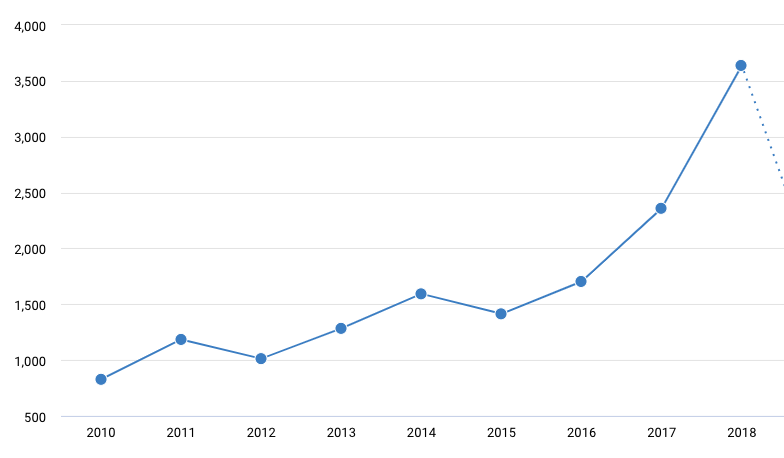
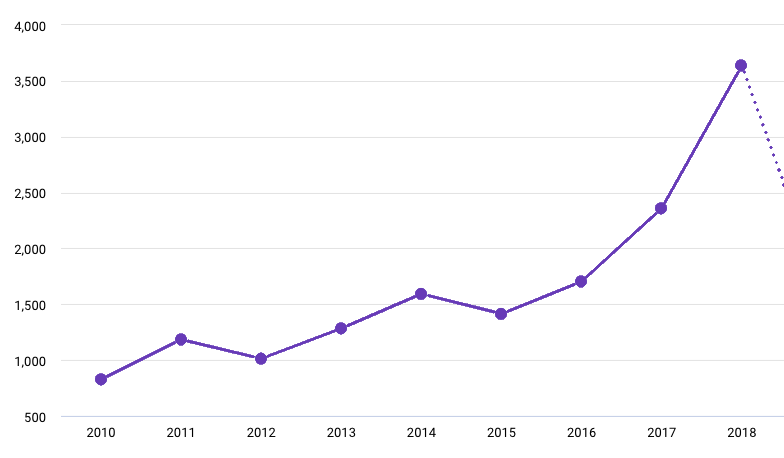
it should work

diff --git a/src/app/app.module.ts b/src/app/app.module.ts
@@ -25,16 +25,9 @@ import { AddPupilFormComponent } from './components/add-pupil-form/add-pupil-for
 import { BrowserAnimationsModule } from '@angular/platform-browser/animations';
 import { RegisterHeadmasterComponent } from './pages/register-headmaster/register-headmaster.component';
 import { AddHeadmasterFormComponent } from './components/add-headmaster-form/add-headmaster-form.component';
-import { MatButtonModule } from '@angular/material/button';
-import { MatCard, MatCardModule } from '@angular/material/card';
-import { MatFormFieldModule } from '@angular/material/form-field';
-import { MatIconModule } from '@angular/material/icon';
-import { MatSelectModule } from '@angular/material/select';
-import { MatSortModule } from '@angular/material/sort';
-import { MatTableModule } from '@angular/material/table';
+
 import { AddTeacherFormComponent } from './components/add-teacher-form/add-teacher-form.component';
 import { AddParentFormComponent } from './components/add-parent-form/add-parent-form.component';
-import { from } from 'rxjs';
 import { SchoolRegisterFormComponent } from './components/school-register-form/school-register-form.component';
 import { AdminInfoComponent } from './components/admin-info/admin-info.component';
 import { AdminNavbarComponent } from './components/admin-navbar/admin-navbar.component';
@@ -45,6 +38,15 @@ import { SchoolRequestsComponent } from './components/School Requests/school-req
 import { SchoolRequestCardComponent } from './components/School Requests/school-request-card/school-request-card.component';
 import { HeaderComponent } from './components/header/header.component';
 
+import { MatButtonModule } from '@angular/material/button';
+import { MatCardModule } from '@angular/material/card';
+import { MatFormFieldModule } from '@angular/material/form-field';
+import { MatIconModule } from '@angular/material/icon';
+import { MatSortModule } from '@angular/material/sort';
+import { MatTableModule } from '@angular/material/table';
+import { MatSelectModule } from '@angular/material/select';
+import { MatInputModule } from '@angular/material/input';
+import { MatCheckboxModule } from '@angular/material/checkbox';
 
 @NgModule({
   declarations: [
@@ -87,18 +89,18 @@ import { HeaderComponent } from './components/header/header.component';
     ReactiveFormsModule,
     HttpClientModule,
     BrowserAnimationsModule,
-    MatButtonModule,
     BrowserAnimationsModule,
-    MatSelectModule,
-    MatIconModule,
-    MatSelectModule,
-    MatTableModule,
-    MatSortModule,
-    MatFormFieldModule,
     CommonModule,
     RouterModule,
+    MatButtonModule,
+    MatCardModule,
+    MatFormFieldModule,
+    MatIconModule,
+    MatSortModule,
+    MatTableModule,
     MatSelectModule,
-    MatCardModule
+    MatInputModule,
+    MatCheckboxModule
   ],
   providers: [],
   bootstrap: [AppComponent]

diff --git a/src/app/components/login-form/login-form.component.scss b/src/app/components/login-form/login-form.component.scss
@@ -30,41 +30,9 @@
       display: grid;
       grid-template-columns: repeat(2, auto);
       font-size: 0.875rem;
-      color: #acacac;
       
-      .checkbox-field {
-        display: grid;
-        grid-template-columns: 13px auto;
-        align-items: center;
-        justify-self: start;
-
-        .remember-control {
-          margin-bottom: -2px;
-
-          &:hover {
-            cursor: pointer;
-          }
-        }
-
-        .remember {
-          color: #acacac;
-          padding-left: 0.25rem;
-          transition: $transition;
-
-          &::first-letter {
-            text-transform: capitalize;
-          }
-
-          &:hover {
-            cursor: pointer;
-          }
-        }
-
-        &:hover {
-          .remember {
-            color: $accent;
-          }
-        }
+      .remember-control {
+        text-transform: capitalize;
       }
 
       .forgot-link {

diff --git a/src/app/components/form-field/form-field.component.html b/src/app/components/form-field/form-field.component.html
@@ -1,11 +1,14 @@
-<input
-  class="form-field-control"
-  [id]="field.id"
-  [type]="field.type"
-  ngModel
-  (change)="onChange($event.target.value)"
-  [placeholder]="field.placeholder"
-  [ngClass]="{'error': field.errorMsg != null }"
-/>
-<label [for]="field.id" class="form-field-label" >{{ field.label }}</label>
-<p class="error-message" *ngIf="!!field.errorMsg" >{{ field.errorMsg }}</p>
+<mat-form-field class="example-full-width" appearance="fill">
+  <mat-label class="form-field-label" >{{ field.label }}</mat-label>
+  <input
+    matInput
+    class="form-field-control"
+    [id]="field.id"
+    [type]="field.type"
+    ngModel
+    (change)="onChange($event.target.value)"
+    [placeholder]="field.placeholder"
+    [ngClass]="{'error': field.errorMsg != null }"
+  />
+  <p class="error-message" *ngIf="!!field.errorMsg" >{{ field.errorMsg }}</p>
+</mat-form-field>

diff --git a/src/app/components/login-form/login-form.component.html b/src/app/components/login-form/login-form.component.html
@@ -11,10 +11,7 @@
   >
   </yps-form-field>
   <div class="wrap">
-    <div class="checkbox-field">
-      <input type="checkbox" formControlName="remember" class="remember-control" id="remember-control">
-      <label class="remember" for="remember-control">remember me</label>
-    </div>
+    <mat-checkbox formControlName="remember" class="remember-control" id="remember-control">remember me!</mat-checkbox>
     <a href="#" class="forgot-link">Forgot password?</a>
   </div>
   <button type="submit" class="btn login-btn primary">login</button>

diff --git a/src/styles.scss b/src/styles.scss
@@ -1,6 +1,7 @@
 /* You can add global styles to this file, and also import other style files */
 @import './fonts.scss';
 @import './vars.scss';
+@import "@angular/material/prebuilt-themes/deeppurple-amber.css";
 
 * {
   color: #333333;
@@ -75,5 +76,3 @@ input {
     font-size: 14px;
   }
 }
-html, body { height: 100%; }
-body { margin: 0; font-family: Roboto, "Helvetica Neue", sans-serif; }

diff --git a/src/app/components/add-pupil-form/add-pupil-form.component.html b/src/app/components/add-pupil-form/add-pupil-form.component.html
@@ -19,7 +19,7 @@
     [formControlName]="field.name"
   >
   </yps-form-field>
-  <mat-form-field>
+  <mat-form-field appearance="fill">
     <mat-label>Select a class</mat-label>
     <mat-select formControlName="classId" disableRipple>
       <mat-option *ngFor="let class of classes" [value]="class.id">{{ class.name }}</mat-option>

diff --git a/src/app/components/welcome/welcome.component.html b/src/app/components/welcome/welcome.component.html
@@ -1,2 +1,2 @@
-<h1 class="title">welcome</h1>
+<h1 class="title">welcome to</h1>
 <img src="assets/images/yps-icon.png" alt="yps-icon" class="yps-logo" />
